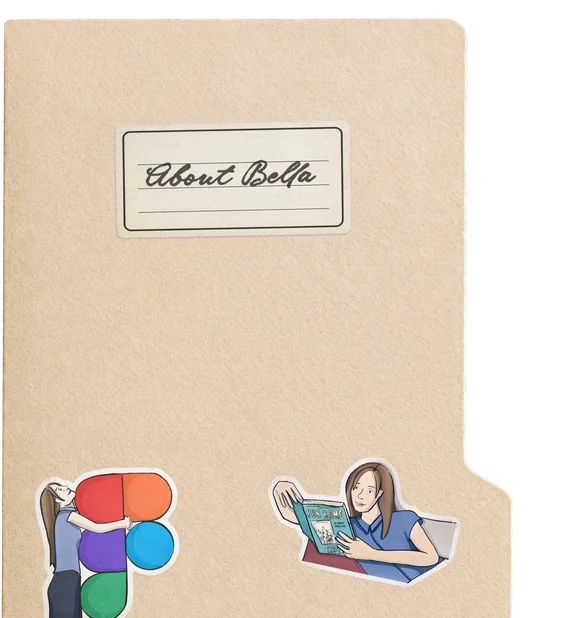
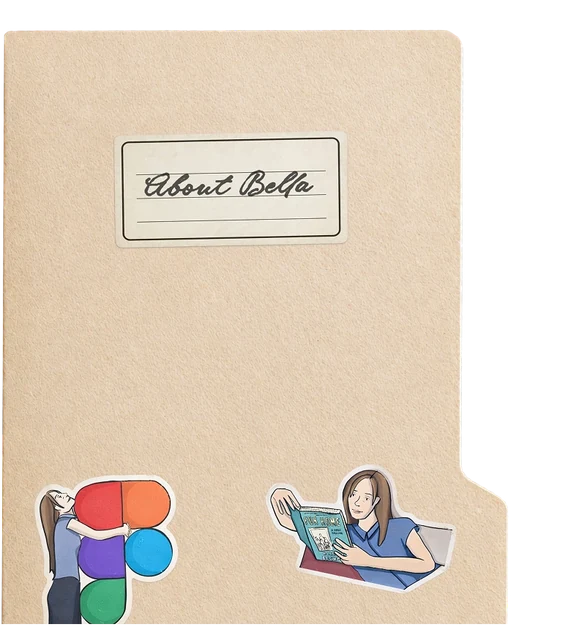
Home folder uses the same photos, borders and folder as the about page
The home collage now uses the about page's high-res photo files with the
same white borders and cropping, and both pages share the new folder
artwork in the same spot, so nothing changes size or shape as the photos
fly between pages. Remove the old collage exports.

Claude-Session: https://claude.ai/code/session_015jk89ALhmaMZFLte5xrJwg

diff --git a/site.css b/site.css
@@ -111,7 +111,7 @@
     --hr: var(--r);
     position: absolute;
     display: block;
-    object-fit: cover;
+    object-fit: cover;             /* each photo is cropped to its spot, as on the about page */
     transform: translate(var(--x), var(--y)) rotate(var(--r));
     /* duration, easing and delay are re-randomised by home.js on every hover */
     transition: transform var(--dur, 450ms) var(--ease, cubic-bezier(0.34, 1.4, 0.64, 1)) var(--delay, 0ms);
@@ -122,14 +122,12 @@
     transform: translate(var(--hx), var(--hy)) rotate(var(--hr));
 }
 
-.collage__folder-back {
-    left: -10.71px;
-    bottom: 14.58px;
-    width: 315.17px;
-    height: 287.98px;
-    object-position: bottom;
-    --r: 89.49deg;
-    box-shadow: 0 1px 1.1px rgba(0, 0, 0, 0.52);
+.collage__folder-back,
+.collage__folder-front {           /* same folder files and spot on both pages */
+    left: -2.16px;
+    bottom: -1.46px;
+    width: 287.7px;
+    height: 313px;
 }
 
 .collage__photo-50 {               /* red balcony */
@@ -150,23 +148,19 @@
     box-shadow: -2px 1px 1.1px rgba(0, 0, 0, 0.4), -2px 2px 4.3px rgba(0, 0, 0, 0.38);
 }
 
-.collage__polaroid {               /* polaroid: white frame + photo move together */
+.collage__polaroid {               /* polaroid (frame and photo are one image) */
     left: 182.03px;
     bottom: 72.81px;
     width: 88.22px;
     height: 112.18px;
-    background: #fff;
     --r: 5deg;
     box-shadow: 0 4px 7.9px rgba(0, 0, 0, 0.14);
 }
 
-.collage__polaroid img {
-    position: absolute;
-    left: 5.66px;
-    top: 7.15px;
-    width: 73.77px;
-    height: 82.52px;
-    object-fit: cover;
+/* Same photo files and white border as the about page, so the photos look
+   identical when they fly between the two pages. */
+.collage__bordered {
+    border: 3px solid #fff;
 }
 
 .collage__photo-52 {               /* beach */
@@ -196,12 +190,7 @@
     box-shadow: 1px 1px 1.1px rgba(0, 0, 0, 0.13), 2px -1px 3.9px rgba(0, 0, 0, 0.25);
 }
 
-.collage__folder-front {
-    left: -2px;
-    bottom: 0;
-    width: 282px;
-    height: 306px;
-}
+
 
 @media (prefers-reduced-motion: reduce) {
     .collage__item {

diff --git a/index.html b/index.html
@@ -35,12 +35,12 @@
 
     <a class="collage" href="about.html" aria-label="About Bella">
         <img class="collage__item collage__folder-back" src="assets/collage/folder-back.webp" alt="">
-        <img class="collage__item collage__photo-50" src="assets/collage/image-50.webp" alt="">
-        <img class="collage__item collage__photo-51" src="assets/collage/image-51.webp" alt="">
-        <span class="collage__item collage__polaroid"><img src="assets/collage/polaroid-photo.webp" alt=""></span>
-        <img class="collage__item collage__photo-52" src="assets/collage/image-52.webp" alt="">
-        <img class="collage__item collage__photo-53" src="assets/collage/image-53.webp" alt="">
-        <img class="collage__item collage__photo-54" src="assets/collage/image-54.webp" alt="">
+        <img class="collage__item collage__photo-50 collage__bordered" src="assets/about/adobe-talk.webp" alt="">
+        <img class="collage__item collage__photo-51" src="assets/about/trinity.webp" alt="">
+        <img class="collage__item collage__polaroid" src="assets/about/polaroid.png" alt="">
+        <img class="collage__item collage__photo-52 collage__bordered" src="assets/about/beach.webp" alt="">
+        <img class="collage__item collage__photo-53 collage__bordered" src="assets/about/pratt.webp" alt="">
+        <img class="collage__item collage__photo-54" src="assets/about/reality-awaits.webp" alt="">
         <img class="collage__item collage__folder-front" src="assets/collage/folder-front.webp" alt="">
     </a>
 

diff --git a/about.html b/about.html
@@ -38,9 +38,9 @@
 
     <!-- The folder (its front lines up exactly with the home page's), split into back and front so the
          photos can slide out between them. The front is a link back to the home page. -->
-    <img class="folder-layer folder-layer--back folder-art" src="assets/about/folder-back.webp" alt="" aria-hidden="true">
+    <img class="folder-layer folder-layer--back folder-art" src="assets/collage/folder-back.webp" alt="" aria-hidden="true">
     <a class="folder-layer folder-link" href="index.html" aria-label="Back to work">
-        <img class="folder-art" src="assets/about/folder-front.webp" alt="">
+        <img class="folder-art" src="assets/collage/folder-front.webp" alt="">
     </a>
 
     <main class="about-page">
